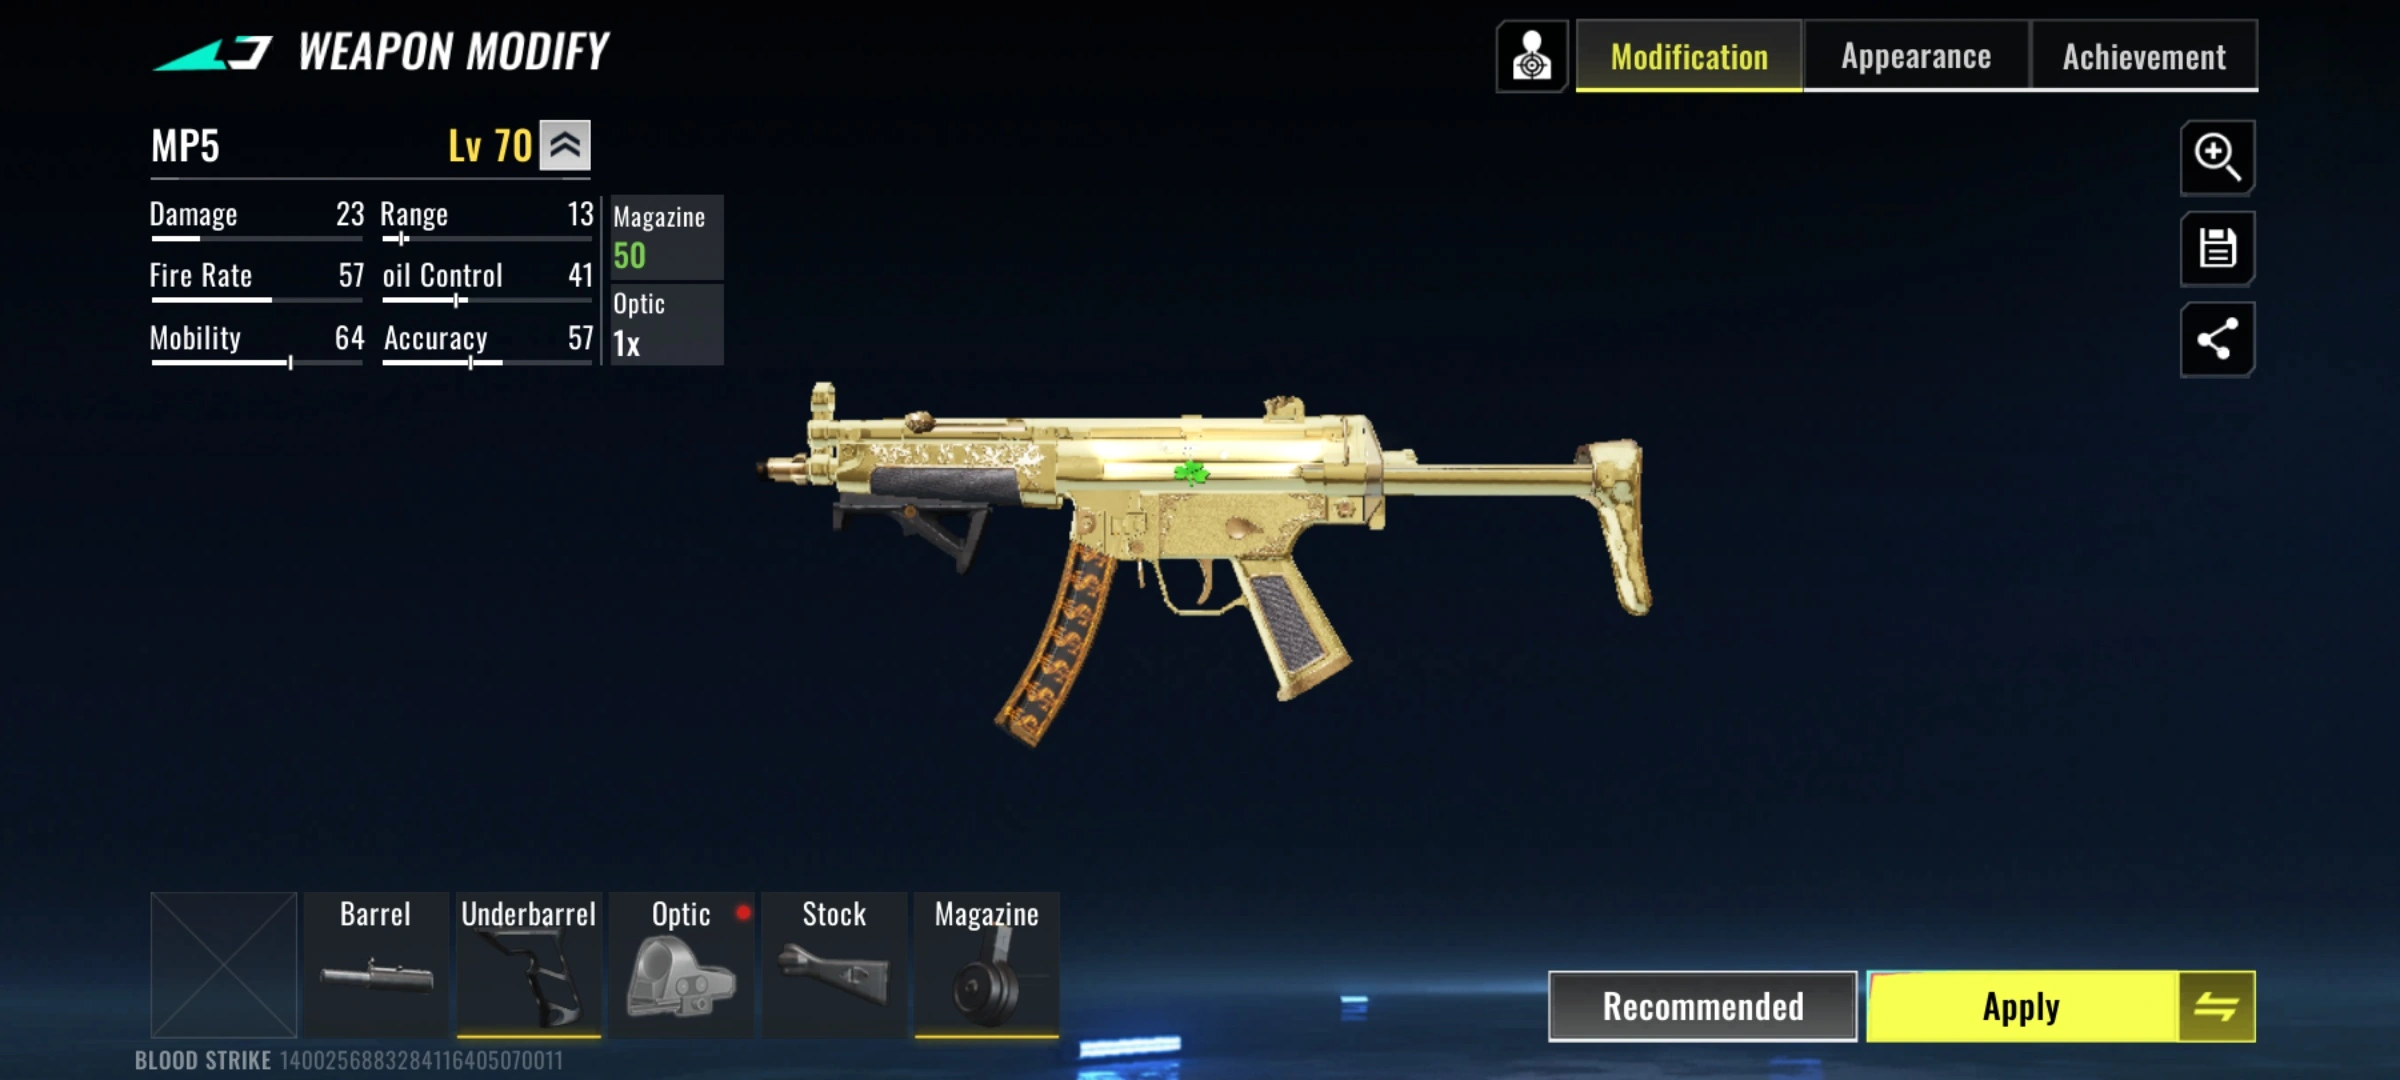
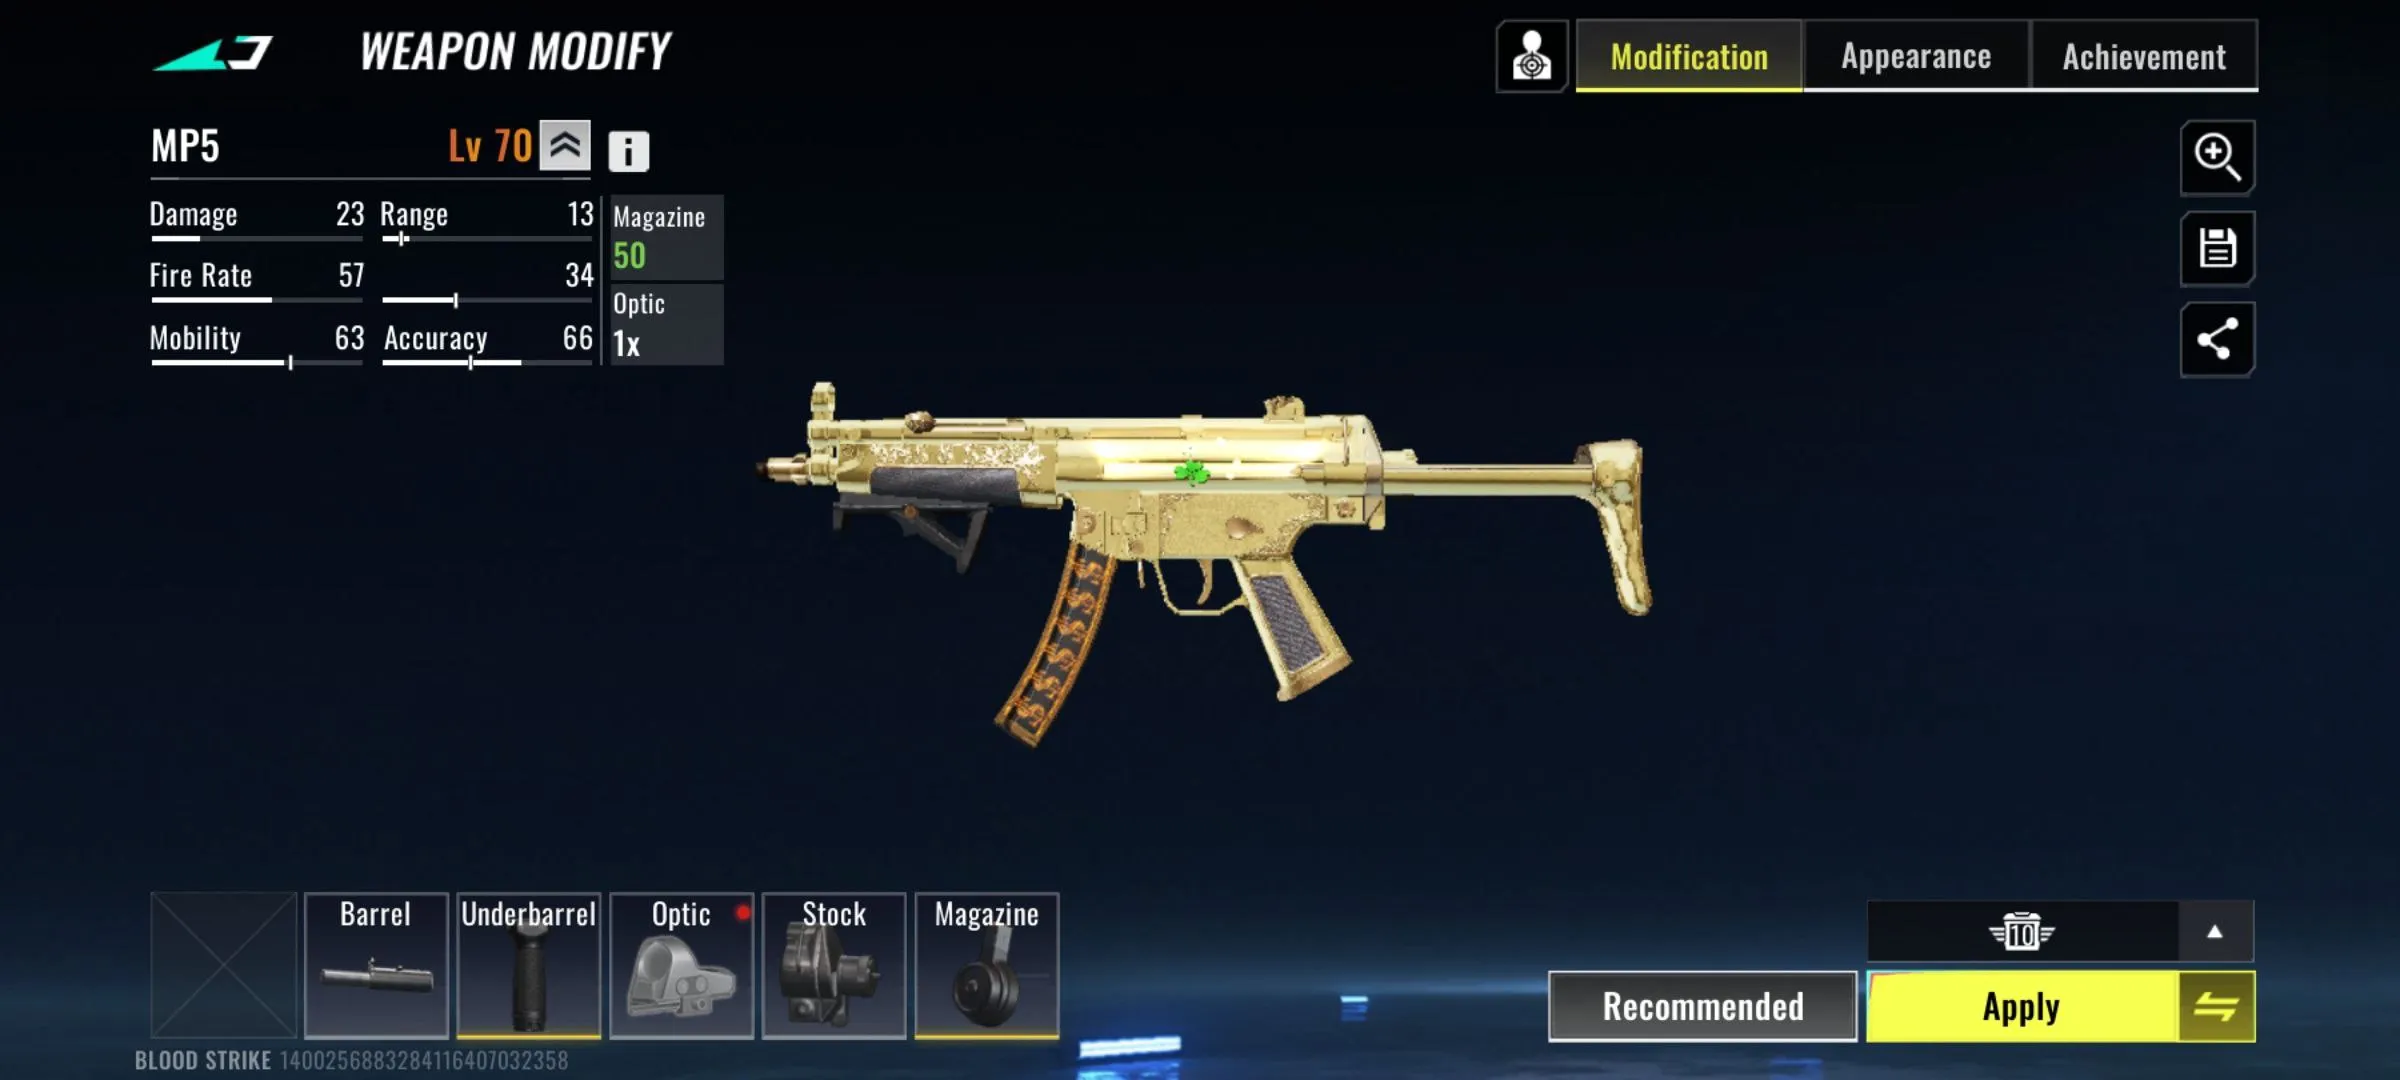
Vs Code

diff --git a/Attachments/M1887.html b/Attachments/M1887.html
@@ -16,12 +16,12 @@
       <p>Optimized for Best Movement And Hip Fire with the M1887 shotgun.</p>
       <h3>Gun: M1887</h3>
       <ul>
-        <li><span style="color: white;">Muzzle:</span> <span style="color: red;">Choke</span></li>
-        <li><span style="color: white;">Barrel:</span> <span style="color: red;">14.5&quot; Punisher Barrel</span></li>
-        <li><span style="color: white;">Underbarrel:</span> <span style="color: red;">🚫</span></li>
-        <li><span style="color: white;">Optic:</span> <span style="color: red;">Iron Sight</span></li>
-        <li><span style="color: white;">Stock:</span> <span style="color: red;">CQB Stock</span></li>
-        <li><span style="color: white;">Magazine:</span> <span style="color: red;">12-round Mag</span></li>
+        <li><span style="color: white;">Muzzle:</span> <span style="color: red;"> Choke</span></li>
+        <li><span style="color: white;">Barrel:</span> <span style="color: red;"> Extended Barrel</span></li>
+        <li><span style="color: white;">Optic:</span> <span style="color: red;"> Iron Sight</span></li>
+        <li><span style="color: white;">Stock:</span> <span style="color: red;"> Hunting Stock</span></li>
+        <li><span style="color: white;">Magazine:</span> <span style="color: red;"> 7-Round Mag</span></li>
+        <li><span style="color: white;">Trigger:</span> <span style="color: red;"> Governor Trigger Guard</span></li>
       </ul>
     </div>
   </div>

diff --git a/Attachments/Mp5.html b/Attachments/Mp5.html
@@ -21,9 +21,9 @@
       <ul>
         <li><strong>Muzzle:</strong> 🚫</li>
         <li><strong>Barrel:</strong> SD Barrel</li>
-        <li><strong>Underbarrel:</strong> SHIFT Skeleton Vertical Grip</li>
+        <li><strong>Underbarrel:</strong> Lengthened Vertical Grip</li>
         <li><strong>Optic:</strong> Iron Sight</li>
-        <li><strong>Stock:</strong> Heavy Stock</li>
+        <li><strong>Stock:</strong> No Stock</li>
         <li><strong>Magazine:</strong> 50-round Drum</li>
       </ul>
     </div>
